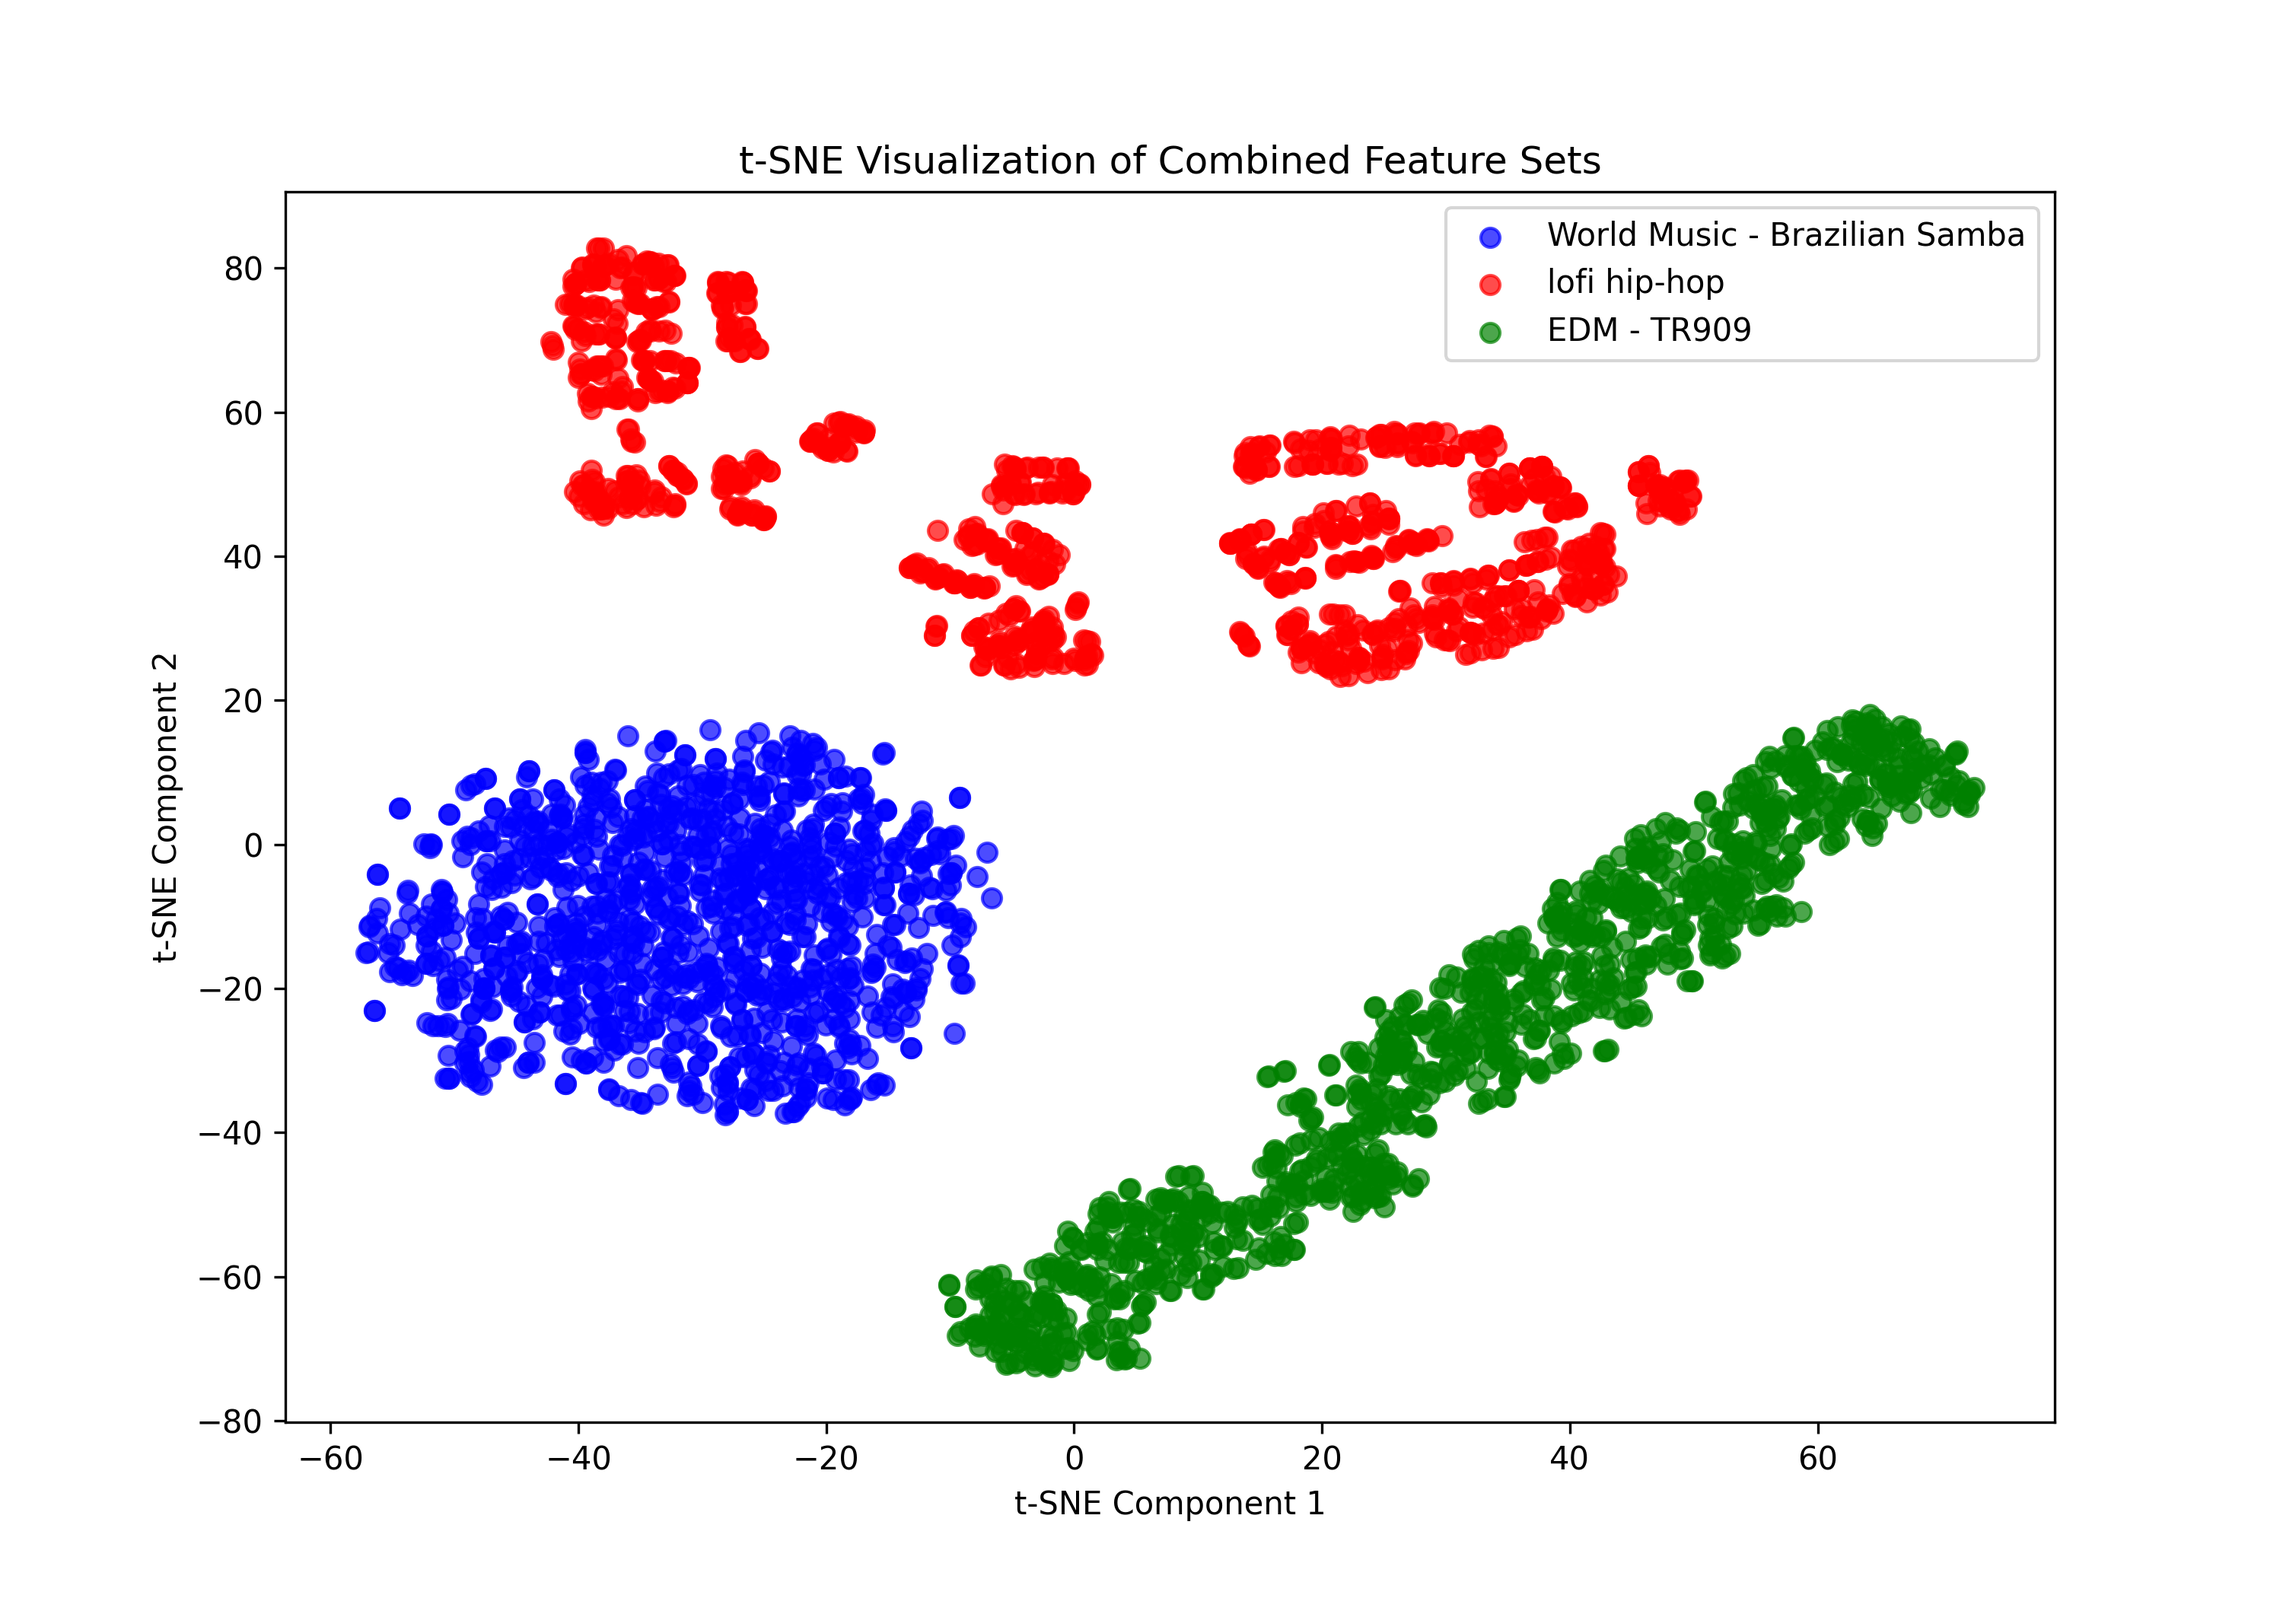
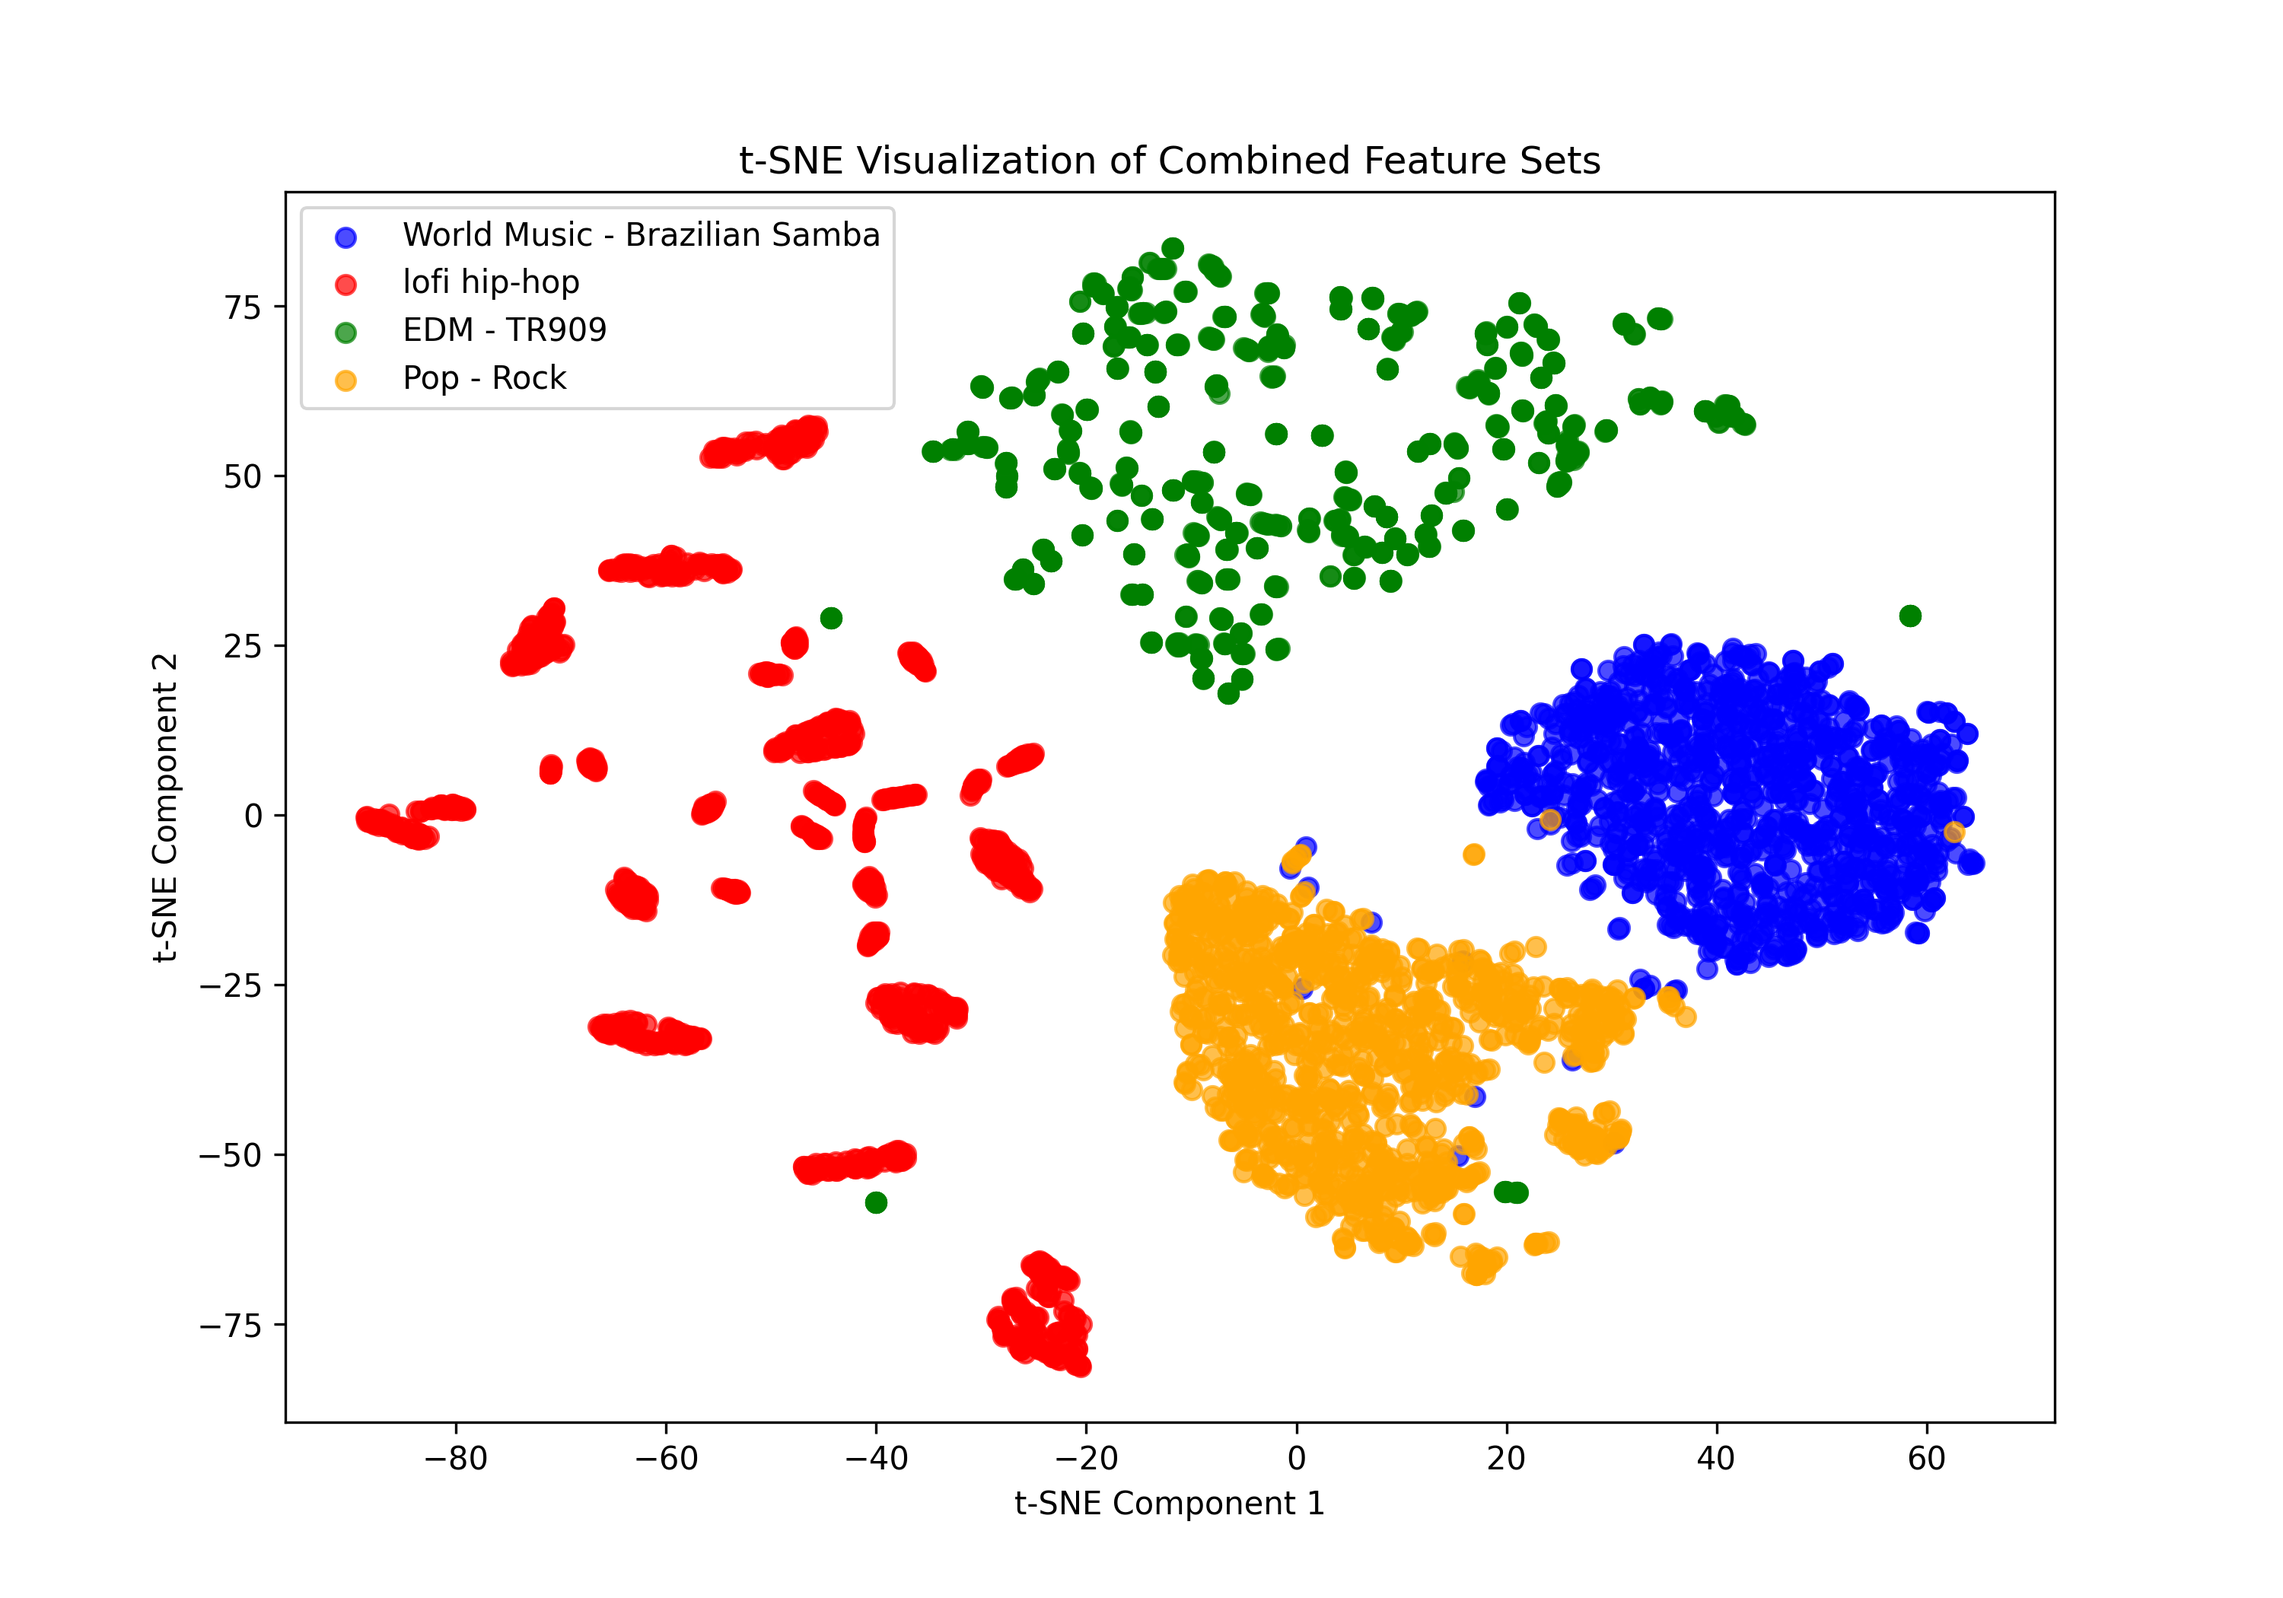
cool plot. but damnn it overfit. but i know why>>

diff --git a/_dataloader.py b/_dataloader.py
@@ -1,0 +1,112 @@
+import numpy as np
+from sklearn.preprocessing import LabelEncoder
+import matplotlib.pyplot as plt
+from sklearn.manifold import TSNE
+from sklearn.model_selection import train_test_split
+
+
+def min_max_normalize(arr):
+    min_val = np.min(arr)
+    max_val = np.max(arr)
+    if max_val == min_val:
+        return np.zeros_like(arr)
+    return (arr - min_val) / (max_val - min_val)
+
+
+def clean_and_split_data():
+    sm_features_labels = np.load('data/wrld_smb_drm_features_and_labels.npz')
+
+    hh_features_labels = np.load("data/hh_lfbb_lps_mid_001-009.npz")
+
+    tr9_feature_labels = np.load("data/edm_tr9_drm_id_001.npz")
+
+    pop_feature_labels = np.load("data/pop_rok_drm_id_001_wav.npz")
+
+    sm_data = sm_features_labels['features']
+
+    hh_data = hh_features_labels['features']
+
+    tr9_data = tr9_feature_labels['features']
+
+    pop_data = pop_feature_labels['features']
+
+    indices_hh = np.linspace(0, hh_data.shape[0] - 1, 1100, dtype=int)
+    hh_data_len_reduced = hh_data[indices_hh]
+
+    indices_tr9 = np.linspace(0, tr9_data.shape[0] - 1, 1100, dtype=int)
+    tr9_data_len_reduced = tr9_data[indices_tr9]
+
+    indices_pop = np.linspace(0, pop_data.shape[0] - 1, 1100, dtype=int)
+    pop_data_len_reduced = pop_data[indices_pop]
+
+    feature_slices = [
+        # slice(0, 13),   # [0:12] 'mfcc_median'
+        # slice(13, 26),  # [13:25]'mfcc_skew'
+        # slice(26, 39),  # [26:38]'mfcc_var'
+        # slice(39, 40),  # [39]  'onset_strength_median'
+        # slice(40, 41),  # [40] 'onset_strength_var'
+        # slice(41, 42),  # [41] 'rms_energy_median'
+        # slice(42, 43),  # [42]  'rms_energy_var'
+        # slice(43, 50),  # [43:49] 'spectral_contrast_median'
+        # slice(50, 57),  # [50:56]'spectral_contrast_var'
+        # slice(57, 58),  # [57]'zcr_median'
+        # slice(58, 59),  # [58]'zcr_var'
+        slice(59, 60),  # [59]  'bpm'
+    ]
+
+    concatenated_dataset = np.concatenate(
+        [sm_data,
+         hh_data_len_reduced,
+         tr9_data_len_reduced,
+         pop_data_len_reduced]
+    )
+
+    labels = ["world_samba", "hip_hop_lofi_boom_bap", "pop_rock", "edm_tr_909"]
+
+    label_encoder = LabelEncoder()
+    encoded_labels = label_encoder.fit_transform(labels)
+
+    expanded_labels = np.concatenate([
+        np.full(1100, encoded_labels[0]),  # world_samba
+        np.full(1100, encoded_labels[1]),  # hip_hop_lofi_boom_bap
+        np.full(1100, encoded_labels[2]),  # pop_rock
+        np.full(1100, encoded_labels[3])   # edm_tr_909
+    ])
+
+    normalized_data = np.zeros_like(concatenated_dataset)
+    for idx_range in feature_slices:
+        normalized_data[:, idx_range] = min_max_normalize(
+            concatenated_dataset[:, idx_range])
+
+    X_train, X_test, y_train, y_test = train_test_split(
+        normalized_data, expanded_labels, test_size=0.3, shuffle=True)
+
+    return X_train, X_test, y_train, y_test, label_encoder
+
+
+def TSNE_plotter(final_data_set):
+    tsne = TSNE(n_components=2, random_state=42,
+                perplexity=30, learning_rate=200)
+    tsne_results = tsne.fit_transform(final_data_set[:, 0:59])
+
+    labels = np.array([0] * 1100 + [1] *
+                      1100 + [2] * 1100 + [3]*1100)
+    plt.figure(figsize=(10, 7))
+    plt.scatter(tsne_results[labels == 0, 0], tsne_results[labels ==
+                                                           0, 1], alpha=0.7, label='World Music - Brazilian Samba', color='blue')
+    plt.scatter(tsne_results[labels == 1, 0], tsne_results[labels ==
+                                                           1, 1], alpha=0.7, label='lofi hip-hop', color='red')
+    plt.scatter(tsne_results[labels == 2, 0], tsne_results[labels ==
+                                                           2, 1], alpha=0.7, label='EDM - TR909', color='green')
+    plt.scatter(tsne_results[labels == 3, 0], tsne_results[labels ==
+                                                           3, 1], alpha=0.7, label='Pop - Rock', color='orange')
+    plt.title("t-SNE Visualization of Combined Feature Sets")
+    plt.xlabel("t-SNE Component 1")
+    plt.ylabel("t-SNE Component 2")
+    plt.legend()
+    plt.savefig("plots/tsne_combined_visualization.png", dpi=300)
+    plt.close()
+
+
+if __name__ == '__main__':
+    print("hello")

diff --git a/extract_features.py b/extract_features.py
@@ -4,53 +4,7 @@ import numpy as np
 from scipy.stats import skew
 from tqdm import tqdm
 import matplotlib.pyplot as plt
-
-
-def plot_normalized_stuff():
-    # Not using this
-
-    plt.figure(figsize=(15, 15))
-
-    plt.subplot(5, 1, 1)
-    plt.imshow(mfcc_normalized, aspect='auto', origin='lower', cmap='viridis')
-    plt.colorbar()
-    plt.title("Normalized MFCCs")
-    plt.xlabel("Frames")
-    plt.ylabel("MFCC Coefficients")
-
-    plt.subplot(5, 1, 2)
-    plt.plot(zcr_normalized, label="Normalized ZCR", color="purple")
-    plt.title("Normalized Zero-Crossing Rate")
-    plt.xlabel("Frames")
-    plt.ylabel("ZCR")
-    plt.legend()
-
-    plt.subplot(5, 1, 3)
-    plt.imshow(spectral_contrast_normalized, aspect='auto',
-               origin='lower', cmap='plasma')
-    plt.colorbar()
-    plt.title("Normalized Spectral Contrast")
-    plt.xlabel("Frames")
-    plt.ylabel("Frequency Bands")
-
-    plt.subplot(5, 1, 4)
-    plt.plot(onset_strength_normalized,
-             label="Normalized Onset Strength", color="green")
-    plt.title("Normalized Onset Strength")
-    plt.xlabel("Frames")
-    plt.ylabel("Onset Strength")
-    plt.legend()
-
-    plt.subplot(5, 1, 5)
-    plt.plot(rms_energy_normalized,
-             label="Normalized RMS Energy", color="orange")
-    plt.title("Normalized RMS Energy")
-    plt.xlabel("Frames")
-    plt.ylabel("RMS Energy")
-    plt.legend()
-
-    plt.tight_layout()
-    plt.savefig("features_plot3.png")
+from pprint import pprint
 
 
 def min_max_normalize(arr):
@@ -93,11 +47,17 @@ def extract_features(file_path, bpm):
         }
 
         feature_vector = np.concatenate([
-            features['mfcc_median'], features['mfcc_var'], features['mfcc_skew'],
-            features['zcr_median'], features['zcr_var'],
-            features['spectral_contrast_median'], features['spectral_contrast_var'],
-            features['onset_strength_median'], features['onset_strength_var'],
-            features['rms_energy_median'], features['rms_energy_var'],
+            features['mfcc_median'], 
+            features['mfcc_skew'],
+            features['mfcc_var'], 
+            features['onset_strength_median'],
+            features['onset_strength_var'],
+            features['rms_energy_median'], 
+            features['rms_energy_var'],
+            features['spectral_contrast_median'], 
+            features['spectral_contrast_var'],
+            features['zcr_median'], 
+            features['zcr_var'],
             [bpm]
         ])
 
@@ -109,9 +69,11 @@ def extract_features(file_path, bpm):
 
 if __name__ == '__main__':
 
+    print("done")
     # csv_path = "data/wrld_smb_drm_8br_id_001_wav.csv"
     # csv_path = 'data/hh_lfbb_lps_mid_001-009.csv'
-    csv_path = "data/edm_tr9_drm_id_001.csv"
+    # csv_path = "data/edm_tr9_drm_id_001.csv"
+    csv_path = "data/pop_rok_drm_id_001_wav.csv"
     data = pd.read_csv(csv_path)
 
     unique_label = [data['genre'].iloc[0], data['subgenre'].iloc[0]]
@@ -128,10 +90,11 @@ if __name__ == '__main__':
             feature_list.append(features)
 
     X = np.array(feature_list)
-    y = np.array([unique_label] * len(feature_list))
+    # y = np.array([unique_label] * len(feature_list))
 
     # output_npz_path = "data/wrld_smb_drm_features_and_labels.npz"
     # output_npz_path = "data/hh_lfbb_lps_mid_001-009.npz"
-    output_npz_path = "data/edm_tr9_drm_id_001.npz"
-    np.savez(output_npz_path, features=X, labels=y)
+    # output_npz_path = "data/edm_tr9_drm_id_001.npz"
+    output_npz_path = "data/pop_rok_drm_id_001_wav.npz"
+    np.savez(output_npz_path, features=X)
     print(f"Features and labels saved to {output_npz_path}")

diff --git a/model.py b/model.py
@@ -1,0 +1,26 @@
+from sklearn import svm
+from sklearn import metrics
+from _dataloader import clean_and_split_data
+
+def linear_SVM():
+    X_train, X_test, y_train, y_test, label_decoder = clean_and_split_data()
+
+    # testing the linear classifier if it is capable?
+    linear_classifier = svm.SVC(kernel='linear')
+    linear_classifier.fit(X_train, y_train)
+    y_hat_train = linear_classifier.predict(X_train)
+    y_hat_test = linear_classifier.predict(X_test)
+
+    train_precision = metrics.precision_score(y_train, y_hat_train, average='macro')
+    test_precision = metrics.precision_score(y_test, y_hat_test, average='macro')
+
+    train_f1 = metrics.f1_score(y_train, y_hat_train, average='macro')
+    test_f1 = metrics.f1_score(y_test, y_hat_test, average='macro')
+
+    print(f"Training Precision: {
+        train_precision:.4f}, Test Precision: {test_precision:.4f}")
+    print(f"Training F1-score: {train_f1:.4f}, Test F1-score: {test_f1:.4f}")
+
+
+def RBF_SVM():
+    pass

diff --git a/make_csv.py b/make_csv.py
@@ -38,5 +38,5 @@ def create_wav_metadata_csv(folder_path, output_csv):
 #                         "data/wrld_smb_drm_8br_id_001_wav.csv")
 
 
-create_wav_metadata_csv("data/edm_tr9_drm_id_001",
-                        "data/edm_tr9_drm_id_001.csv")
+create_wav_metadata_csv("data/pop_rok_drm_id_001_wav",
+                        "data/pop_rok_drm_id_001_wav.csv")
